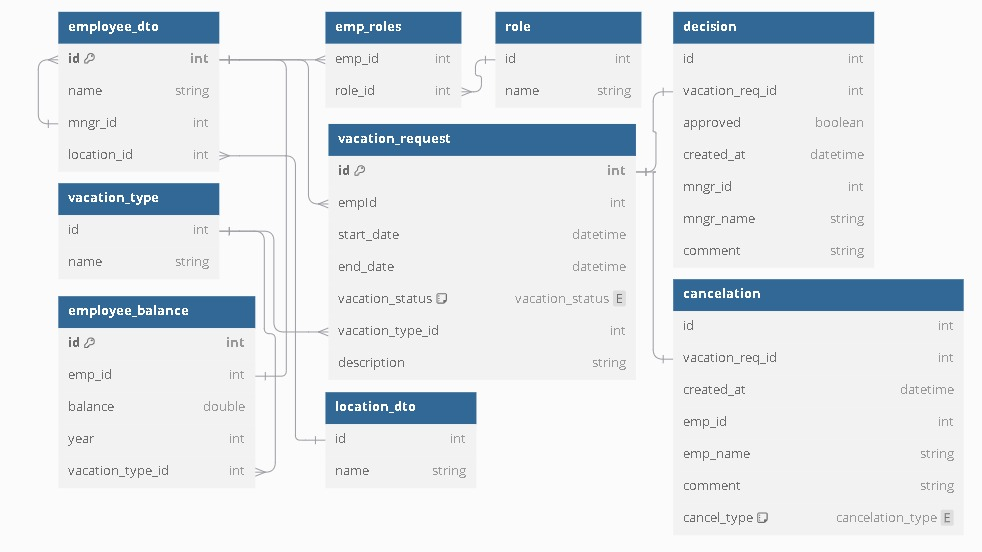
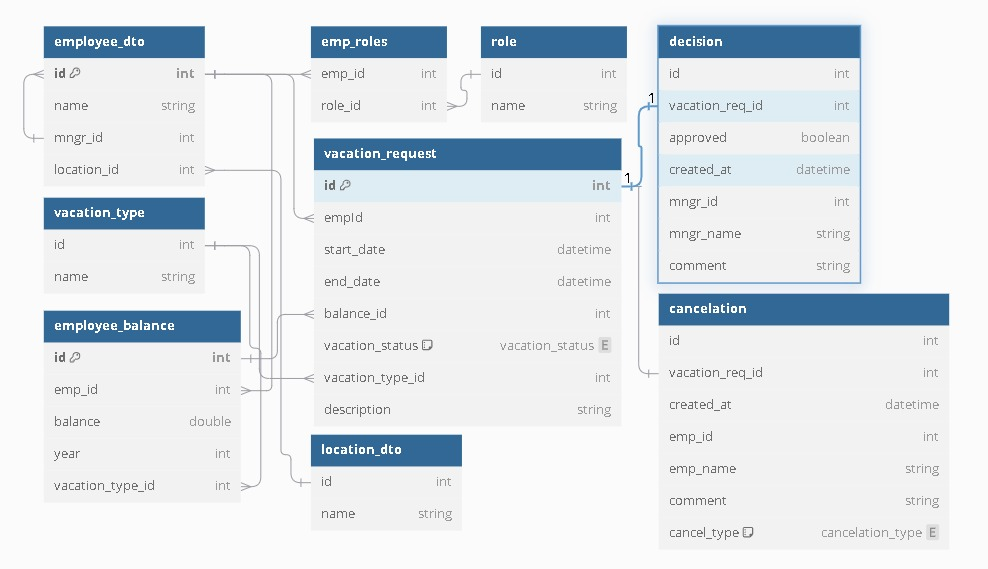
Enahnced Sequence Diagrams , Added Cancel And Withdraw Request (Pseudo&Seq)

diff --git a/design.md b/design.md
@@ -18,6 +18,7 @@
   - [View Vacation Requests](#view-vacation-requests)
   - [Make Vacation Request](#make-vacation-request)
   - [Edit Vacation Request](#edit-vacation-request)
+  - [Cancel Vacation Request](#cacncel-vacation-request)
 - [**Entities & Data Model**](#entities)
 - [**Pseudocode**](#pseudocode)
 
@@ -315,9 +316,9 @@ deactivate HR
 Vac -->> Validation: Validate(request)
 Activate Validation
 Validation -->> Vac:Valid
+deactivate Validation
 alt ValidationException
 Validation -->> Vac: Validation Exception
-deactivate Validation
 Vac -->> VTS: VAlidation Exception
 VTS -->> Employee: Validation Error
 end
@@ -332,6 +333,10 @@ Deactivate Employee
 ```
 
 #### Edit Vacation Request
+
+- Also Check these diagrams :
+  - [Authentication](#authentication-seq-diagram)
+  - [Identifying User Identity and Role](#identifying-user-identity-and-role)
 
 ```mermaid
 sequenceDiagram
@@ -350,8 +355,8 @@ sequenceDiagram
            activate Input Validation
             Input Validation ->> VTS: Valid
             deactivate Input Validation
-
             VTS ->> Vacation Service: editRequest(request)
+            Activate Vacation Service
             Vacation Service ->>Request Validator:validate(request)
             activate Request Validator
 
@@ -362,18 +367,144 @@ sequenceDiagram
                 activate Vacation Service
                 deactivate Vacation Service
                Vacation Service -->> VTS: Request Updated
+               Deactivate Vacation Service
                 VTS -->> Employee: Request Updated
             alt Validation Exception
                 Request Validator -->> VTS: Valitdation Exception
                 VTS -->> Employee: Validation Error
             end
-
-
-
-
-
     deactivate VTS
     deactivate Employee
+
+```
+
+#### Cacncel Vacation Request
+
+- Also Check these diagrams :
+  - [Authentication](#authentication-seq-diagram)
+  - [Identifying User Identity and Role](#identifying-user-identity-and-role)
+
+```mermaid
+   sequenceDiagram
+
+   actor Employee
+   participant VTS
+   participant Input Validation
+   participant Vacation Facade
+   participant Vacation Service
+   participant Cancelation Service
+   participant Balance Service
+   participant Notifier Service
+   Activate Employee
+   Employee ->> VTS: cancelRequest(reqId,comment)
+   activate VTS
+
+   VTS ->> Input Validation: validateInput(reqId,comment)
+   activate Input Validation
+   Input Validation -->> VTS: Valid
+   deactivate Input Validation
+   alt Invalid Input
+   Input Validation -->> Employee: Input Errors
+   end
+   VTS-->>VTS:getCurrentEmp()
+   Activate VTS
+   Deactivate VTS
+   VTS ->> Vacation Facade: cancelRequest(reqId,comment,emp)
+   Activate Vacation Facade
+   alt Sucess
+   Vacation Facade ->> Vacation Service: updateRequestStatus(CANCELED)
+   activate Vacation Service
+   Vacation Service -->> Vacation Facade: updatedRequest
+   deactivate Vacation Service
+
+   Vacation Facade ->> Cancelation Service: createCancelation(reqId,emp,comment,CANCELED)
+   activate Cancelation Service
+   Cancelation Service -->> Vacation Facade: cancelation
+   deactivate Cancelation Service
+   Vacation Facade->> Balance Service: restoreBalance(request)
+   activate Balance Service
+   deactivate Balance Service
+   Vacation Facade ->> Notifier Service: notifyManager(cancelation,empMngr)
+   activate Notifier Service
+   deactivate Notifier Service
+   Vacation Facade -->> VTS : Canceled
+   Deactivate Vacation Facade
+   VTS -->> Employee : Canceled
+   else Exception
+   activate Vacation Facade
+   Vacation Facade ->> Vacation Facade: Rollback()
+   Vacation Facade -->> VTS: Exception
+   deactivate Vacation Facade
+   VTS -->> Employee : Error Message
+   end
+   activate Vacation Service
+   Deactivate VTS
+   Deactivate Employee
+
+```
+
+#### Withdraw Vacation Request
+
+- Also Check these diagrams :
+  - [Authentication](#authentication-seq-diagram)
+  - [Identifying User Identity and Role](#identifying-user-identity-and-role)
+
+```mermaid
+   sequenceDiagram
+
+   actor Employee
+   participant VTS
+   participant Input Validation
+   participant Vacation Facade
+   participant Vacation Service
+   participant Cancelation Service
+   participant Balance Service
+   participant Notifier Service
+   Activate Employee
+   Employee ->> VTS: withdrawRequest(reqId,comment)
+   activate VTS
+
+   VTS ->> Input Validation: validateInput(reqId,comment)
+   activate Input Validation
+   Input Validation -->> VTS: Valid
+   deactivate Input Validation
+   alt Invalid Input
+   Input Validation -->> Employee: Input Errors
+   end
+   VTS-->>VTS:getCurrentEmp()
+   Activate VTS
+   Deactivate VTS
+   VTS ->> Vacation Facade: cancelRequest(reqId,comment,emp)
+   Activate Vacation Facade
+   alt Sucess
+   Vacation Facade ->> Vacation Service: updateRequestStatus(WITHDRAWN)
+   activate Vacation Service
+   Vacation Service -->> Vacation Facade: updatedRequest
+   deactivate Vacation Service
+
+   Vacation Facade ->> Cancelation Service: createCancelation(reqId,emp,comment,WITHDRAWN)
+   activate Cancelation Service
+   Cancelation Service -->> Vacation Facade: cancelation
+   deactivate Cancelation Service
+   Vacation Facade->> Balance Service: restoreBalance(request)
+   activate Balance Service
+   deactivate Balance Service
+   Vacation Facade ->> Notifier Service: notifyManager(cancelation,empMngr)
+   activate Notifier Service
+   deactivate Notifier Service
+   Vacation Facade -->> VTS : WITHDRAWN
+   Deactivate Vacation Facade
+   VTS -->> Employee : WITHDRAWN
+   else Exception
+   activate Vacation Facade
+   Vacation Facade ->> Vacation Facade: Rollback()
+   Vacation Facade -->> VTS: Exception
+   deactivate Vacation Facade
+   VTS -->> Employee : Error Message
+   end
+   activate Vacation Service
+   Deactivate VTS
+   Deactivate Employee
 
 ```
 
@@ -383,20 +514,23 @@ sequenceDiagram
 
   > As the hr system will be the owner of various entities, reducing redundancy and ensuring consistency some entities will be trasient and only its id (in the hr system) will be referenced in our database, we may store some other data if needed.
 
-  - **EmployeeDTO**: DTO object that represents Employee data retieved from employee external API.
-  - **Location DTO**: DTO object that represents Location data retrieved from employee
+  - **EmployeeDTO**: DTO object that represents Employee data retieved from HR external API.
+  - **Location DTO**: DTO object that represents Location data retrieved from HR external API.
 
 - Persistent:
 
-  - **Vacation Request**: Represents entity object representing vacation request details
-  - **Vacation Type**: Entity representing category of a vacatio request
-  - **Employee Balance**: Entity representing employee's vacation balance for a specific Vacation Type
   - **Role**: Entity Representing a Role in the system
+  - **Vacation Request**: Represents entity object representing vacation request details
+  - **Vacation Type**: Entity representing category of a vacation request
+  - **Employee Balance**: Entity representing employee's vacation balance for a specific Vacation Type
   - **Decision**: Entity representing the decision ( Approval, Refusal ) for a Vacation Request
+  - **Cancellation**: Entity representing the cancellation of a Submitted Vacation Request
 
 - Enums
   - **Vacation Status (Enum)**: Enum representing Vacation Request status \
-    (PENDING | APPROVED | REJECTED | WITHDRAWN | CANCELLED)
+    (PENDING | APPROVED | REJECTED | WITHDRAWN | CANCELED)
+  - **Cancellation Type**: Enum representing Vacation Request cancellation type \
+    (CANCELED | WITHDRAWN)
 
 <figure align="center">
 <kbd>
@@ -454,14 +588,12 @@ sequenceDiagram
 
      // Retrieve employee data for the current user from the HR API
      emp = hr.getEmployee(user.username)
-
-     request = createRequest(emp,toDateTime,fromDateTime,vacationType,description)
+     // Retrieve employee's vacation balance from the database
+      balance = database.getVacationBalance(emp.id, vacationType,Year.now())
+     request = createRequest(emp,createdNow(),toDateTime,fromDateTime,vacationType,description,balance.id)
 
      // Retrieve location and other restrictions from the database
      locationRestrictions[] = database.getLocationRestrictions(request)
-
-     // Retrieve employee's vacation balance from the database
-     balance = database.getVacationBalance(emp.id, vacationType)
 
      balanceRestriction = createBalanceRestriction(balance)
      restrictionsList[] = locationRestrictions + balanceRestriction  // Combining to one list
@@ -523,4 +655,113 @@ sequenceDiagram
 
     RETURN "Request Updated"
    END FUNCTION
+  ```
+
+- **Cancel Vacation Request**
+
+  ```pseudocode
+  FUNCTION cancelVacationRequest(requestId,comment)
+     // Check if the user is authenticated
+     IF NOT security.isAuthenticated() THEN
+        RETURN "Error: Not Authenticated!"
+     END IF
+
+     // Check if the input is valid
+     IF NOT isValidInput(requestId, comment) THEN
+        RETURN "Error: Invalid Input"
+     END IF
+
+     // Get the authenticated user
+     user = security.getCurrentUser()
+
+     // fetch emp data from HR API
+     emp = hrClient.getEmp(user.username)
+
+     // Retrieve Decision
+     decision = database.getDecision(requestId)
+
+     // Check that if cancelation conditions are met
+     IF (NOT decision.isApproved()) OR (decision.createdAt > (Date.now() - 5 Days)) THEN
+        RETURN ERROR: "Illegal State"
+     End IF
+
+     //Retrieve request from database
+     request = database.getVacationRequest(requestId)
+
+     // Check if the user is authorized to change this request
+     IF NOT (request.empId = emp.empId or hasRole(HR)) Then
+        RETURN Error:"UnAuthorized"
+     END IF
+
+     // update request status to canceled
+     request.setStatus(CANCELED)
+     database.update(request)
+
+     //Create cancelation record
+     cancelation= database.insertCancelation(emp.empId,emp.name,requestId,comment,CANCELED)
+
+     // Retrieve employee's vacation balance from the database
+     balance = database.getVacationBalance(request.balance_id)
+
+     // Restore balance
+     restoreBalance(balance,request)
+
+     //Notify manager
+     notifyManager(cancelation,emp.mngr)
+
+     RETURN "Request Canceled"
+  END FUNCTION
+  ```
+
+- **Withdraw Vacation Request**
+
+  ```pseudocode
+  FUNCTION withdrawVacationRequest(requestId)
+     // Check if the user is authenticated
+     IF NOT security.isAuthenticated() THEN
+        RETURN "Error: Not Authenticated!"
+     END IF
+
+     // Check if the input is valid
+     IF NOT isValidInput(requestId) THEN
+        RETURN "Error: Invalid Input"
+     END IF
+
+     // Get the authenticated user
+     user = security.getCurrentUser()
+
+     //Fetch emp data from HR API
+     emp = hrClient.getEmp(user.username)
+
+     // Ensure that there is no decision on the request yet
+     IF database.decisionExists(requestId) THEN
+        RETURN ERROR: "Illegal State"
+     End IF
+
+     //Retrieve request from database
+     request = database.getVacationRequest(requestId)
+
+     // Check if the user is authorized to change this request
+     IF NOT (request.empId = emp.empId or hasRole(HR)) Then
+        RETURN Error:"UnAuthorized"
+     END IF
+
+     // update request status to canceled
+     request.setStatus(WITHDRAWN)
+     database.update(request)
+
+     //Create cancelation record
+     cancelation= database.insertCancelation(emp.empId,emp.name,requestId,WITHDRAWN)
+
+     // Retrieve employee's vacation balance from the database
+     balance = database.getVacationBalance(request.balance_id)
+
+     // Restore balance
+     restoreBalance(balance,request)
+
+     //Notify manager
+     notifyManager(cancelation,emp.mngr)
+
+     RETURN "Request Withdrawn"
+  END FUNCTION
   ```
